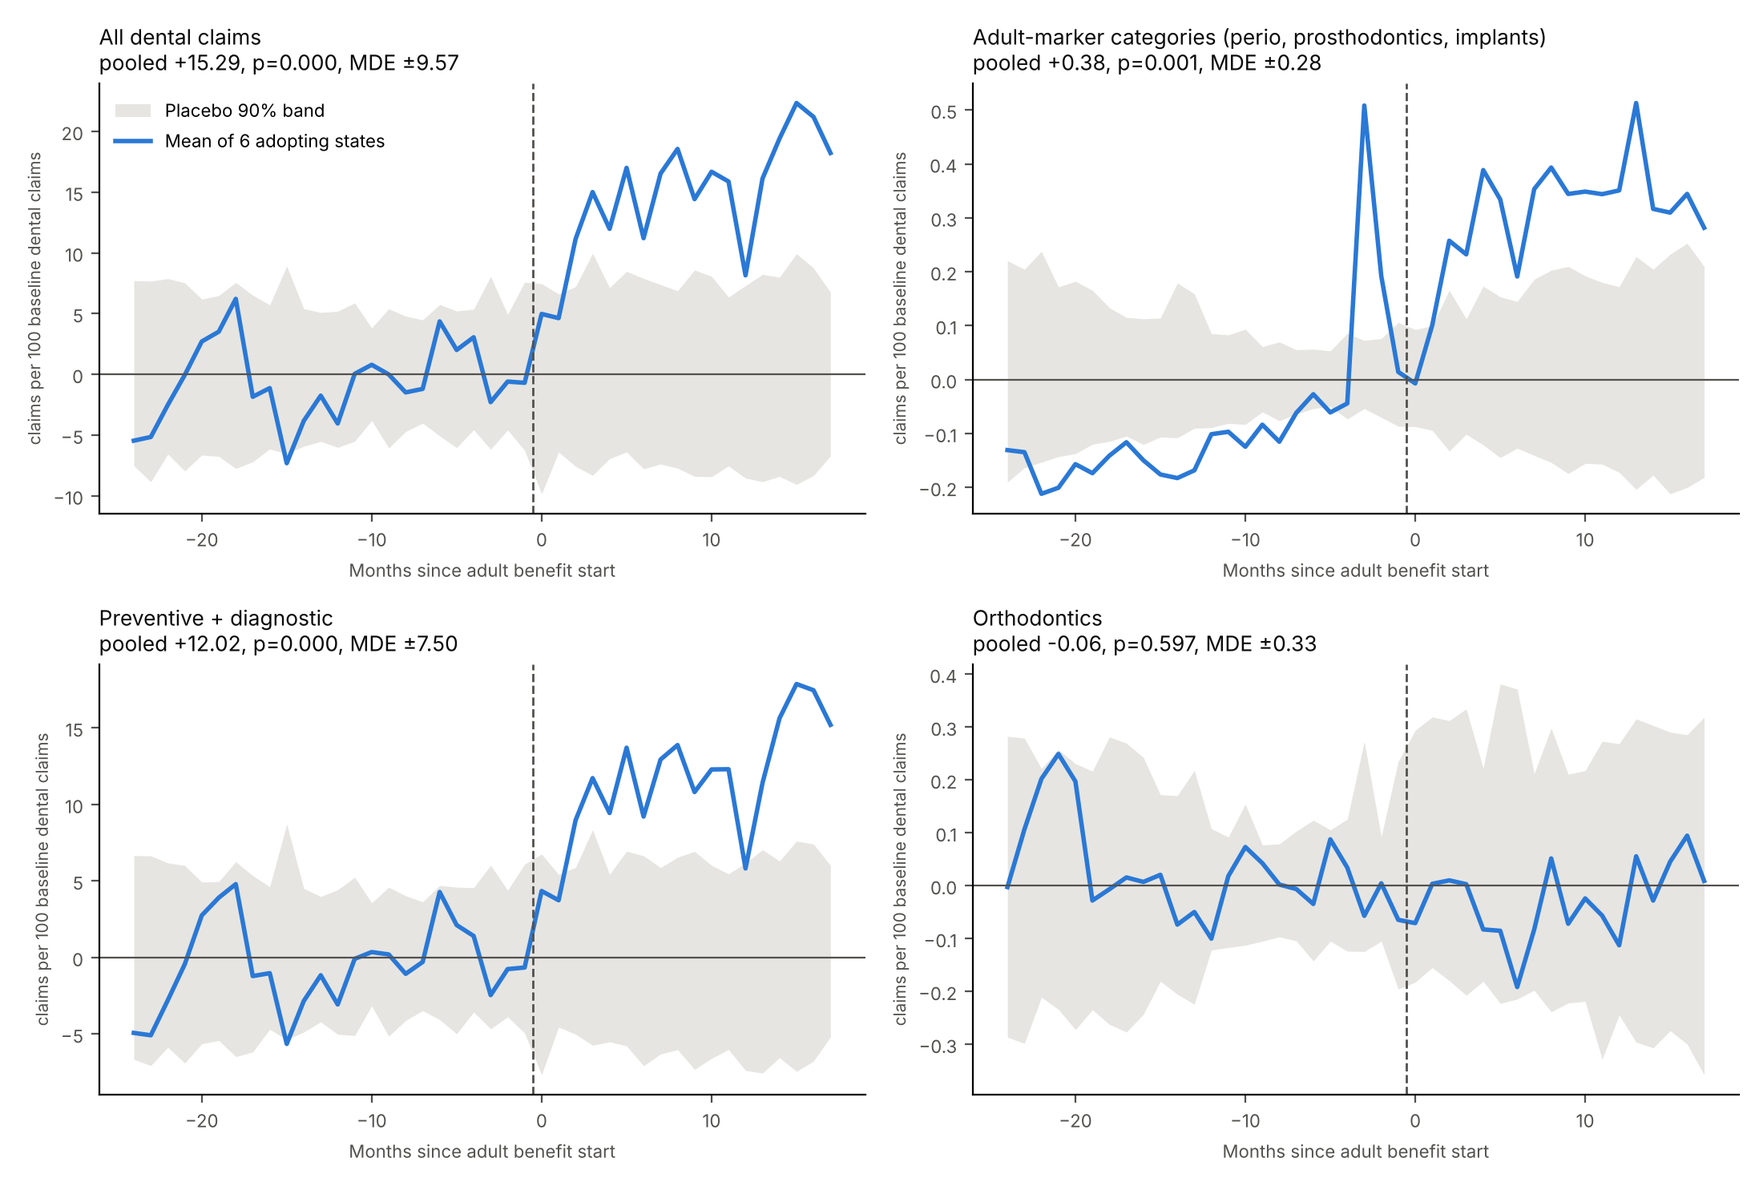
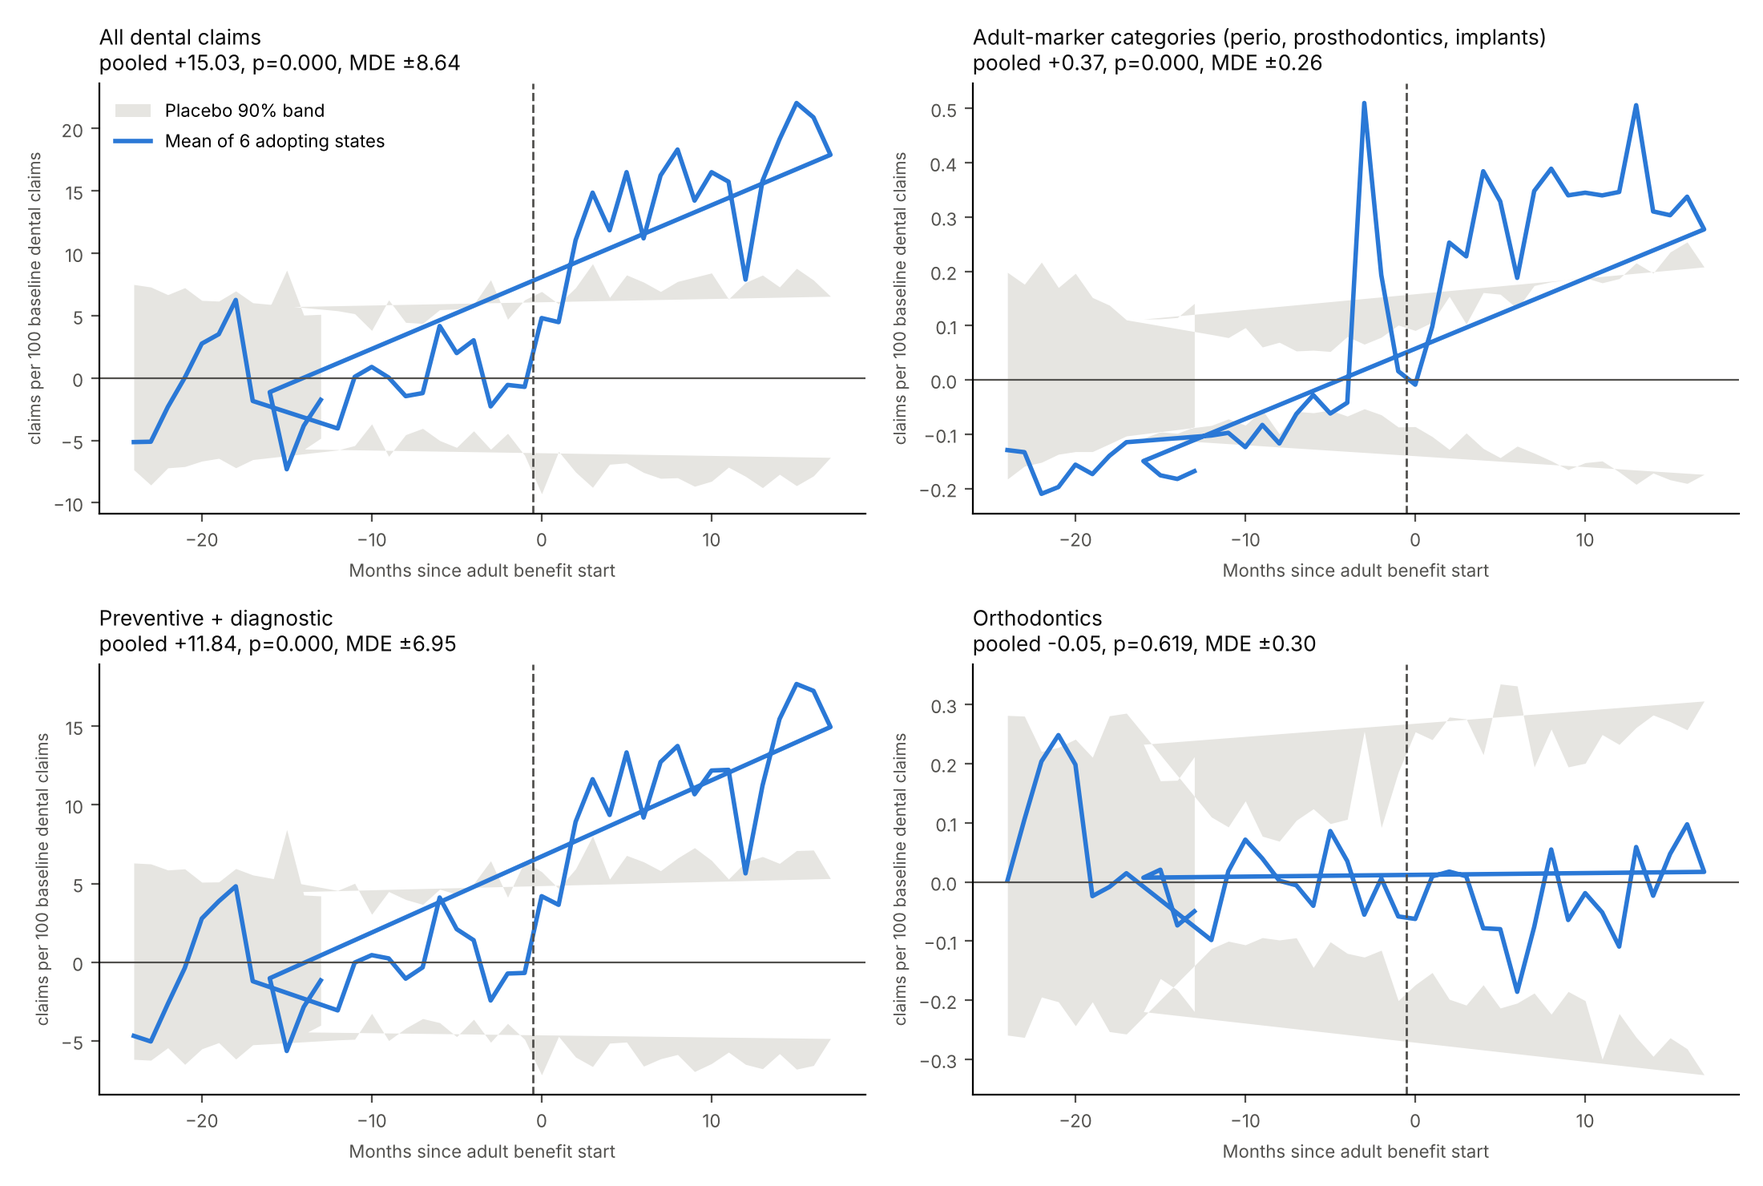
Make adult dental analysis consistent and self-checking
Drop COVID months everywhere through one helper (baselines previously
included them), draw distinct placebo states per permutation draw, report
each estimate as a percent of the outcome's own baseline, check that the
code panel reconciles exactly with the category totals, share one state
list between scripts, and correct the DQ Atlas rule description.

Claude-Session: https://claude.ai/code/session_015Un4tGx4R9rZvFtiGRXLcA

diff --git a/analysis/adult_dental_spillover/prelim.py b/analysis/adult_dental_spillover/prelim.py
@@ -31,7 +31,6 @@ SRC = D.ROOT / "public/data/provider_procedure_category_aggregate_monthly_state.
 CODE_PANEL = D.HERE / "output" / "code_panel_state.csv"
 OUT = D.HERE / "output"
 OUT.mkdir(exist_ok=True)
-COVID = ("2020-03", "2020-06")  # shutdown months, dropped from every estimate
 RNG = np.random.default_rng(20261109)
 N_DRAWS = 5000
 UNIT = "claims per 100 baseline dental claims"
@@ -71,10 +70,14 @@ def load_category() -> dict[str, pd.DataFrame]:
     }
 
 
-def load_code() -> dict[str, pd.DataFrame]:
+def load_code(category_total: pd.DataFrame) -> dict[str, pd.DataFrame]:
     if not CODE_PANEL.exists():
         return {}
     c = pd.read_csv(CODE_PANEL, dtype={"ym": str})
+    # Both panels come from the same merged file, so totals must match exactly.
+    diff = (_wide(c) - category_total).abs().values.max()
+    if diff > 1:
+        raise SystemExit(f"code panel and category totals disagree by up to {diff:,.0f} claims in a state-month")
     child = c.age_group == "child"
     return {
         "code_child": _wide(c[child]),
@@ -86,9 +89,8 @@ def load_code() -> dict[str, pd.DataFrame]:
 
 
 def scaled(raw: pd.DataFrame, total: pd.DataFrame, st: D.Stack, states: list[str]) -> pd.DataFrame:
-    base = total.loc[st.lo : D.ym(st.adopt, -1), states].mean()
-    y = raw.reindex(index=total.index, fill_value=0).loc[st.lo : st.hi, states] / base * 100
-    y.loc[(y.index >= COVID[0]) & (y.index <= COVID[1])] = np.nan
+    base = D.drop_covid(total.loc[st.lo : D.ym(st.adopt, -1), states]).mean()
+    y = D.drop_covid(raw.reindex(index=total.index, fill_value=0).loc[st.lo : st.hi, states]) / base * 100
     y.index = [(pd.Period(m, "M") - pd.Period(st.adopt, "M")).n for m in y.index]  # event time
     return y
 
@@ -103,35 +105,45 @@ def did(y: pd.DataFrame, s: str, ctl: list[str]) -> float:
 
 
 def estimate(raw, total, design, drop=None):
-    per, plac, paths, cpaths = {}, {}, {}, {}
+    per, plac, paths, cpaths, base = {}, {}, {}, {}, {}
     for st in design.stacks:
         ctl = [c for c in st.controls if c not in (drop or {}).get(st.state, [])]
         y = scaled(raw, total, st, [st.state] + ctl)
         per[st.state] = did(y, st.state, ctl)
-        plac[st.state] = np.array([did(y, c, [x for x in ctl if x != c]) for c in ctl])
+        base[st.state] = y.loc[y.index < 0, st.state].mean()  # outcome's own baseline, same units
+        plac[st.state] = {c: did(y, c, [x for x in ctl if x != c]) for c in ctl}
         g = gap(y, st.state, ctl)
         paths[st.state] = g - g.loc[-12:-1].mean()
-        cp = []
+        cp = {}
         for c in ctl:
             gc = gap(y, c, [x for x in ctl if x != c])
-            cp.append(gc - gc.loc[-12:-1].mean())
+            cp[c] = gc - gc.loc[-12:-1].mean()
         cpaths[st.state] = cp
-    rows = [
-        dict(state=s, n_controls=len(plac[s]), did=e, perm_p=(1 + (np.abs(plac[s]) >= abs(e)).sum()) / (1 + len(plac[s])),
-             placebo_sd=plac[s].std(ddof=1))
-        for s, e in per.items()
-    ]  # fmt: skip
+
+    def placebo_draw() -> dict[str, str]:
+        """One pseudo-treated control per stack, never the same state twice in a draw."""
+        used, pick = set(), {}
+        for s in per:
+            options = [c for c in plac[s] if c not in used] or list(plac[s])
+            pick[s] = options[RNG.integers(len(options))]
+            used.add(pick[s])
+        return pick
+
+    rows = []
+    for s, e in per.items():
+        v = np.array(list(plac[s].values()))
+        rows.append(dict(state=s, n_controls=len(v), did=e, baseline=base[s],
+                         perm_p=(1 + (np.abs(v) >= abs(e)).sum()) / (1 + len(v)), placebo_sd=v.std(ddof=1)))  # fmt: skip
+    picks = [placebo_draw() for _ in range(N_DRAWS)]
     pooled = np.mean(list(per.values()))
-    draws = np.array([np.mean([RNG.choice(plac[s]) for s in per]) for _ in range(N_DRAWS)])
-    rows.append(dict(state="POOLED", n_controls=np.nan, did=pooled,
+    draws = np.array([np.mean([plac[s][c] for s, c in p.items()]) for p in picks])
+    rows.append(dict(state="POOLED", n_controls=np.nan, did=pooled, baseline=np.mean(list(base.values())),
                      perm_p=(1 + (np.abs(draws) >= abs(pooled)).sum()) / (1 + N_DRAWS), placebo_sd=draws.std(ddof=1)))  # fmt: skip
     res = pd.DataFrame(rows)
     res["mde"] = 2.8 * res.placebo_sd  # 80% power, two-sided 5%
+    res["pct_of_baseline"] = 100 * res.did / res.baseline  # change relative to the outcome's own pre level
     tp = pd.concat(paths, axis=1)
-    band = pd.concat(
-        [pd.concat([cpaths[s][RNG.integers(len(cpaths[s]))] for s in paths], axis=1).mean(axis=1) for _ in range(1000)],
-        axis=1,
-    )
+    band = pd.concat([pd.concat([cpaths[s][c] for s, c in p.items()], axis=1).mean(axis=1) for p in picks[:1000]], axis=1)
     return res, (tp, band.quantile(0.05, axis=1), band.quantile(0.95, axis=1))
 
 
@@ -166,7 +178,7 @@ def plot(bands: dict, res: pd.DataFrame, keys: list[str], fname: str) -> None:
 
 def main() -> None:
     outcomes = load_category()
-    outcomes.update(load_code())
+    outcomes.update(load_code(outcomes["total"]))
     total = outcomes["total"]
     design = D.build(total)
     strict = D.build(total, strict_dq=True)
@@ -181,9 +193,10 @@ def main() -> None:
         for name, kw in [("strict_dq", dict(design=strict)), ("drop_falsification_flags", dict(design=design, drop=flags))]:
             rs, _ = estimate(raw, total, **kw)
             sens.append(rs[rs.state == "POOLED"].assign(outcome=y, spec=name))
-    res = pd.concat(main_res, ignore_index=True)[["outcome", "state", "n_controls", "did", "perm_p", "placebo_sd", "mde"]]
+    cols = ["outcome", "state", "n_controls", "baseline", "did", "pct_of_baseline", "perm_p", "placebo_sd", "mde"]
+    res = pd.concat(main_res, ignore_index=True)[cols]
     res.round(4).to_csv(OUT / "did_estimates.csv", index=False)
-    s = pd.concat(sens, ignore_index=True)[["outcome", "spec", "did", "perm_p", "mde"]]
+    s = pd.concat(sens, ignore_index=True)[["outcome", "spec", "did", "pct_of_baseline", "perm_p", "mde"]]
     s.round(4).to_csv(OUT / "did_sensitivity.csv", index=False)
 
     plot(bands, res, ["total", "adult_markers", "prev_diag", "ortho"], "event_study_category.png")
@@ -192,7 +205,7 @@ def main() -> None:
     pd.set_option("display.width", 200)
     print(D.describe(design)[["treated", "adopt", "n_controls", "dropped"]].to_string(index=False, max_colwidth=80))
     print(f"\nPooled DiD, {UNIT}")
-    print(res[res.state == "POOLED"][["outcome", "did", "perm_p", "mde"]].round(3).to_string(index=False))
+    print(res[res.state == "POOLED"][["outcome", "baseline", "did", "pct_of_baseline", "perm_p", "mde"]].round(3).to_string(index=False))
     print(s.round(3).to_string(index=False))
 
 

diff --git a/analysis/adult_dental_spillover/design.py b/analysis/adult_dental_spillover/design.py
@@ -19,12 +19,15 @@ Rule 3  Clean window. No state in a stack, treated or control, may have a
         adoption.
 Rule 4  Usable data. No state in a stack may have, inside the window,
         (a) a CMS DQ Atlas rating of "Unusable" for Claims Volume - OT or
-            Procedure Codes - OT Professional (the rule CMS applies in its
-            own Medicaid dental reporting), or
+            Procedure Codes - OT Professional (two of the three topics CMS
+            uses to suppress state-months in its own Medicaid dental
+            reporting; the third, enrollment, is not in our DQ file), or
         (b) a reporting break: average monthly dental claims changing by
-            more than 1.5x between consecutive half-years (2020H1, the COVID
-            shutdown, skipped). The policy effect is about 1.1x, so this
-            cannot select on treatment.
+            more than 1.5x between consecutive half-years. The policy effect
+            is about 1.15x, so this cannot select on treatment.
+
+COVID: the shutdown months (COVID_MONTHS) are dropped everywhere: outcomes,
+baselines, the reporting-break test and the falsification check.
 
 Robustness checks (never used in the main estimate):
   - strict data quality: Rule 4a also drops "High concern"
@@ -47,6 +50,7 @@ ROOT = HERE.parents[1]
 
 START, END = "2018-01", "2024-09"  # END drops the Nov/Dec 2024 claims lag (LIMITATIONS L02)
 PRE, POST = 24, 18
+COVID_MONTHS = ("2020-03", "2020-06")  # inclusive; dropped from every calculation
 BREAK_RATIO = 1.5
 DQ_TOPICS = ("claims-volume", "proc-cd-prof")
 FALSIFY_RATIO = 3.0
@@ -60,6 +64,12 @@ STATES = (
 
 def ym(d: str, k: int = 0) -> str:
     return (pd.Period(d, "M") + k).strftime("%Y-%m")
+
+
+def drop_covid(df: pd.DataFrame | pd.Series) -> pd.DataFrame | pd.Series:
+    """Remove the COVID shutdown months (index is 'YYYY-MM')."""
+    keep = (df.index < COVID_MONTHS[0]) | (df.index > COVID_MONTHS[1])
+    return df[keep]
 
 
 @dataclass
@@ -105,10 +115,9 @@ def _break(total: pd.DataFrame, state: str, lo: str, hi: str) -> str | None:
     """Rule 4b."""
     if state not in total.columns:
         return "no data"
-    s = total[state].loc[lo:hi]
+    s = drop_covid(total[state].loc[lo:hi])
     p = pd.PeriodIndex(s.index, freq="M")
     half = s.groupby([f"{x.year}H{1 if x.month <= 6 else 2}" for x in p]).mean()
-    half = half[half.index != "2020H1"]
     if (half <= 0).any():
         return "reporting break (zero claims)"
     r = np.exp(np.abs(np.diff(np.log(half.values)))).max(initial=1.0)
@@ -150,6 +159,7 @@ def build(total: pd.DataFrame, strict_dq: bool = False) -> Design:
 
 def falsification_flags(adult: pd.DataFrame, total: pd.DataFrame, st: Stack) -> list[str]:
     """Robustness: controls whose adult-marker share rises FALSIFY_RATIO-fold or more."""
+    adult, total = drop_covid(adult), drop_covid(total)
     pre_end = ym(st.adopt, -1)
     flags = []
     for c in st.controls:

diff --git a/analysis/adult_dental_spillover/build_code_panel.py b/analysis/adult_dental_spillover/build_code_panel.py
@@ -68,6 +68,11 @@ STATE_FIPS = {
 
 
 
+from design import STATES  # noqa: E402  (same state list as the analysis)
+
+assert set(STATE_FIPS.values()) == set(STATES), "state lists in build_code_panel.py and design.py differ"
+
+
 def sql_list(xs: list[str]) -> str:
     return ", ".join(f"'{x}'" for x in xs)
 

diff --git a/analysis/adult_dental_spillover/README.md b/analysis/adult_dental_spillover/README.md
@@ -35,7 +35,7 @@ Four rules, applied the same way to every state. The design is a stacked differe
 1. **Policy events.** Every event is a row in `policy_events.csv` with a date and a source. An `adopt` event means the state began covering routine cleanings for all non-pregnant adults, with no such coverage before. Any other change to an adult dental benefit is `expand`. ACA Medicaid expansion is `aca`.
 2. **Window.** Every sub-experiment covers 24 months before and 18 months after adoption. An adopter is treated only if its whole window fits inside the data (2018-01 to 2024-09).
 3. **Clean window.** No state in a sub-experiment, treated or control, may have a policy event inside the window, apart from the treated state's own adoption.
-4. **Usable data.** No state in a sub-experiment may have, inside the window, a CMS DQ Atlas rating of "Unusable" for Claims Volume – OT or Procedure Codes – OT Professional. CMS applies that rule in its own Medicaid dental reporting. No state may have a reporting break either, meaning average monthly dental claims changing more than 1.5× between consecutive half-years (2020H1 skipped for the COVID shutdown). The policy effect is about 1.15×, so this cannot select on treatment.
+4. **Usable data.** No state in a sub-experiment may have, inside the window, a CMS DQ Atlas rating of "Unusable" for Claims Volume – OT or Procedure Codes – OT Professional. These are two of the three topics CMS uses to suppress state-months in its own Medicaid dental reporting; the third (enrollment) is not in our DQ file. No state may have a reporting break either, meaning average monthly dental claims changing more than 1.5× between consecutive half-years. The policy effect is about 1.15×, so this cannot select on treatment.
 
 There are two robustness checks, and neither is used in the main estimate. The first is strict data quality, which also drops DQ Atlas "High concern". The second drops controls whose adult-marker share of claims rises 3× or more within the window, a sign of a policy change missing from the events file.
 
@@ -56,41 +56,45 @@ Dates come from state agency documents for HI (SPA 22-0012) and OK (SPA OK-21-00
 
 ## Estimation
 
-Every outcome uses one scale: monthly claims per 100 of the state's own average monthly dental claims in the 24 pre-adoption months. A result of +5 on any outcome means 5% of the state's baseline dental volume. Adult and child changes are therefore in the same units, and zero counts need no special handling.
+Every outcome uses one scale: monthly claims per 100 of the state's own average monthly dental claims in the 24 pre-adoption months. Adult and child changes are therefore in the same units, and zero counts need no special handling. `pct_of_baseline` in the outputs restates each estimate as a percent of that outcome's own pre-adoption level in the treated states.
 
-Each sub-experiment's estimate is a 2×2 DiD (post minus pre gap between the treated state and the mean of its controls). The pooled estimate is the equal-weight mean across sub-experiments. March to June 2020 is dropped. The panel ends 2024-09 to avoid the late-2024 claims lag (LIMITATIONS L02).
+Each sub-experiment's estimate is a 2×2 DiD (post minus pre gap between the treated state and the mean of its controls). The pooled estimate is the equal-weight mean across sub-experiments. COVID shutdown months (March to June 2020) are dropped from every calculation: outcomes, baselines, the reporting-break test and the falsification check. The panel ends 2024-09 to avoid the late-2024 claims lag (LIMITATIONS L02).
 
-Inference is by permutation, the standard approach with few treated units (Conley and Taber 2011; MacKinnon and Webb 2020). Each control is re-run as a placebo against the other controls in its sub-experiment. The pooled p-value comes from 5,000 draws of one placebo per sub-experiment. The minimum detectable effect (MDE) is 2.8 × the placebo SD (80% power, two-sided 5%).
+Inference is by permutation, the standard approach with few treated units (Conley and Taber 2011; MacKinnon and Webb 2020). Each control is re-run as a placebo against the other controls in its sub-experiment. The pooled p-value comes from 5,000 draws that assign one placebo state to each sub-experiment, never the same state twice in a draw. The minimum detectable effect (MDE) is 2.8 × the placebo SD (80% power, two-sided 5%).
 
-## Results (category level)
+When the code-level panel is present, `prelim.py` first checks that its state-month totals equal the shipped category totals exactly (both come from the same merged file) and stops if they do not.
+
+## Results
 
 Units are claims per 100 baseline dental claims.
 
-| Outcome                                         | Pooled DiD | Permutation p |   MDE |
-| ----------------------------------------------- | ---------: | ------------: | ----: |
-| All dental claims                               |      +15.3 |       < 0.001 |  ±9.6 |
-| Preventive + diagnostic                         |      +12.0 |       < 0.001 |  ±7.5 |
-| Adult-marker categories (perio, prosthodontics) |      +0.38 |         0.001 | ±0.28 |
-| Orthodontics                                    |      −0.06 |          0.60 | ±0.33 |
+| Outcome                                         | Pooled DiD | % of own baseline | Permutation p |   MDE |
+| ----------------------------------------------- | ---------: | ----------------: | ------------: | ----: |
+| All dental claims                               |      +15.0 |              +15% |       < 0.001 |  ±8.6 |
+| Preventive + diagnostic                         |      +11.8 |              +15% |       < 0.001 |  ±6.9 |
+| Adult-marker categories (perio, prosthodontics) |      +0.37 |             +222% |       < 0.001 | ±0.26 |
+| Orthodontics                                    |      −0.05 |               −4% |          0.62 | ±0.30 |
 
-By state, total claims rose 31.7 in MD, 17.0 in VA and ME, 15.7 in HI and 12.4 in TN. NH fell 2.1. The pooled total is +15.8 with strict data quality and +14.5 with flagged controls dropped.
+By state, total claims rose 31.7 in MD, 17.0 in ME, 15.7 in HI, 15.4 in VA and 12.4 in TN. NH fell 2.1. The pooled total is +15.6 with strict data quality and +14.4 with flagged controls dropped.
+
+The first code-level run on the full merged file (1,215.5M claims, reconciling exactly with the category totals) gave child-marker codes +1.08 (p = 0.14, MDE ±2.1), general dentists −0.30 (p = 0.49), pediatric dentists +0.43 (p = 0.28), adult-marker codes +0.36 (p < 0.001) and D1110 +1.89 (p < 0.001). That run predates the COVID-baseline and placebo-draw fixes, so rerun before quoting.
 
 ## What this means for the paper
 
-1. The first stage is clear. Adult-marker claims rise within three months of each start date and stay up. Their small size (+0.38) reflects HHS small-cell suppression of low-volume adult procedures, so treat it as a timing check.
-2. Total volume rises about 15% of baseline. If children's claims were unchanged, that is the size of the adult inflow.
-3. A state-level design cannot detect displacement. The MDE is about 10 per 100. A plausible displacement (a quarter of the inflow, about 4) is below detection.
-4. The child question has to be answered within states at the provider level. Compare children's claims at general dentists (who absorb new adults) with children's claims at pediatric dentists (taxonomy 1223P0221X), using `output/code_panel_provider.parquet`. Add heterogeneity by each dentist's pre-period Medicaid volume and by county dentist supply.
-5. NH needs a closer look. Adult-marker claims rise in the months before its April 2023 date, and total claims do not move. The date may be wrong, or NH adult claims may flow through a channel this data misses.
+1. Adults came in. Adult-marker categories and codes rise within three months of each start date and stay up. Small-cell suppression hides most low-volume adult procedures, so treat their size as a lower bound.
+2. Total dental volume rises about 15% of baseline.
+3. Children's care did not fall. Child-marker codes moved up, not down, and the estimate rules out a drop larger than about 2% of children's volume. The rise itself is not statistically reliable.
+4. The general-dentist dip and pediatric-dentist rise point the way displacement would, but neither is reliable and the gap has not been tested directly. The provider panel (`output/code_panel_provider.parquet`) is where to test it.
+5. NH needs a closer look. Adult-marker claims rise in the months before its April 2023 date, and total claims do not move.
 
 ## Next steps
 
-1. Run `build_code_panel.py` on the merged file. It splits claims into child-marker codes (D0145, D1120, D1351, D1208, space maintainers, D2930, primary-tooth pulpal therapy), adult-marker codes (D4341/D4342, D4355, D4910, dentures), D1110 (age 14 and up) and mixed, and providers into pediatric, general and other by NPPES taxonomy.
-2. Benchmark Virginia's code-level adult volume against DMAS published adult dental utilization to measure how much small-cell suppression hides.
-3. Add CMS monthly Medicaid enrollment for adults and children (data.medicaid.gov). The 2023 adoptions overlap the start of unwinding.
-4. Collect child fee-schedule changes around each adoption date. A child fee increase at the same time would confound the child outcome.
-5. Verify every date in `policy_events.csv` against primary sources.
+1. Rerun `build_code_panel.py` and `prelim.py`, and commit `output/code_panel_state.csv` (never the parquet).
+2. Test the general-versus-pediatric gap directly, with heterogeneity by county dentist supply.
+3. Benchmark Virginia's code-level adult volume against DMAS published adult dental utilization to measure how much small-cell suppression hides.
+4. Add CMS monthly Medicaid enrollment for adults and children (data.medicaid.gov). The 2023 adoptions overlap the start of unwinding.
+5. Collect child fee-schedule changes around each adoption date, and verify every date in `policy_events.csv` against primary sources.
 
 ## Limitations
 
-Category outcomes mix children and adults, so the child effect is not identified until the code-level panel is built. Geography comes from the provider's practice address. The policy events file can miss changes. The falsification check is there to catch those, and it flags SC and UT in most sub-experiments. See [`docs/LIMITATIONS.md`](../../docs/LIMITATIONS.md) for the full data ledger.
+Category outcomes mix children and adults; only the code-level outcomes separate them. Geography comes from the provider's practice address. The policy events file can miss changes. The falsification check is there to catch those, and it flags SC and UT in most sub-experiments (results barely move when they are dropped). See [`docs/LIMITATIONS.md`](../../docs/LIMITATIONS.md) for the full data ledger.
